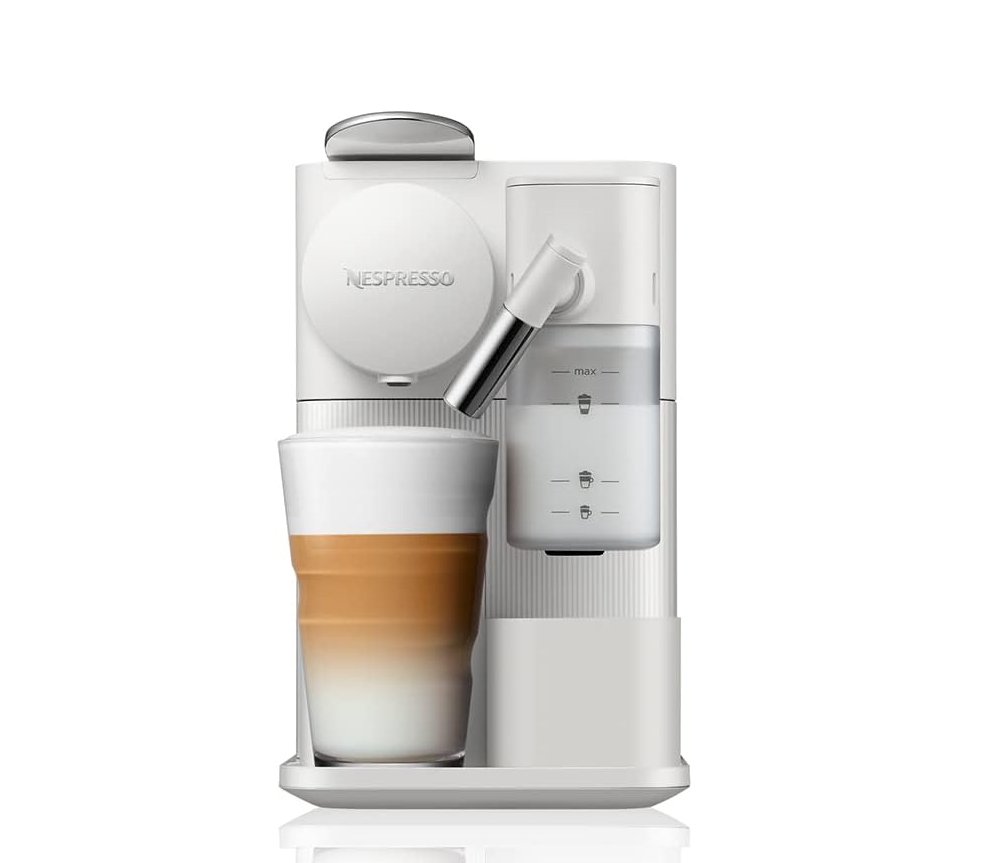
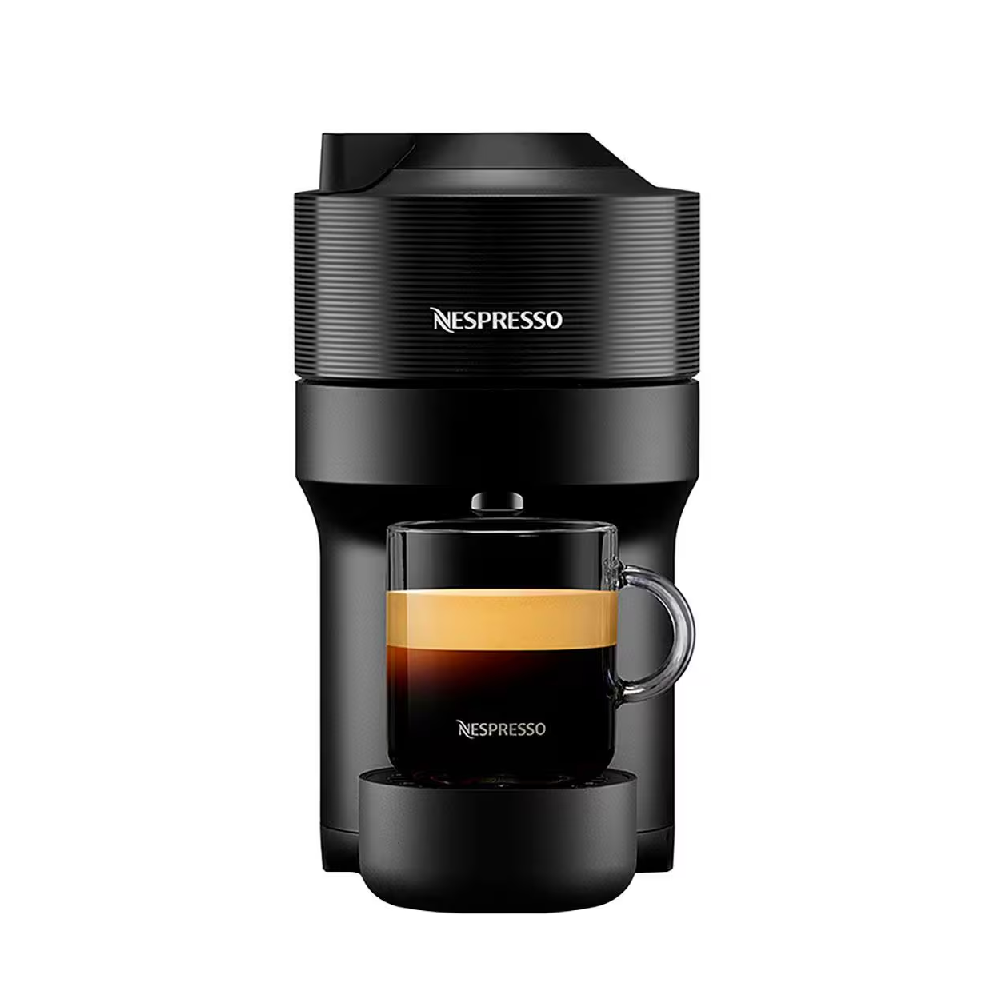
coloquei mais itens

diff --git a/index.html b/index.html
@@ -76,8 +76,7 @@
         <img src="./img/microondas.png" alt="Microondas">
         <h1>Microondas Philco<br>34L Espelhado</h1>
         <span class="valor">R$ 629,90</span>
-        <a class="reservar" href="https://api.whatsapp.com/send?phone=553195111081&text=Olá%2C%20vim%20do%20site%20de%20presentes%20dos%20padrinhos%20e%20gostaria%20de%20reservar%20o%20*Microondas*%20ainda%20está%20disponível%3F%20%F0%9F%98%83">Reservar</a>
-        <a class="comprar" href="https://www.amazon.com.br/Microondas-Philco-Espelhado-Prata-PMO34E/dp/B09G533WFK/ref=asc_df_B09G533WFK/?tag=googleshopp06-20&linkCode=df0&hvadid=676104128623&hvpos=&hvnetw=g&hvrand=10470493351472419974&hvpone=&hvptwo=&hvqmt=&hvdev=m&hvdvcmdl=&hvlocint=&hvlocphy=1031586&hvtargid=pla-2261118195259&psc=1&mcid=c961d6237ffa3c35ba6d206e75d65339">Comprar no site</a>
+        <a class="reservado" href="#lista">RESERVADO</a>
       </div>
 
       <div class="item">
@@ -117,10 +116,10 @@
 
       <div class="item">
         <img src="./img/cafeteira.png" alt="Cafeteira">
-        <h1>Cafeteira Lattissima One</h1>
-        <span class="valor"> R$ 1.169,90</span>
-        <a class="reservar" href="https://api.whatsapp.com/send?phone=553195111081&text=Olá%2C%20vim%20do%20site%20de%20presentes%20dos%20padrinhos%20e%20gostaria%20de%20reservar%20a%20*Cafeteira%20Lattissima*%20ainda%20está%20disponível%3F%20%F0%9F%98%83">Reservar</a>
-        <a class="comprar" href="https://www.amazon.com.br/Nespresso-Lattissima-One-Branca-Cafeteira/dp/B09WYZPBR7/ref=asc_df_B09WYZPBR7/?tag=googleshopp00-20&linkCode=df0&hvadid=557926986208&hvpos=&hvnetw=g&hvrand=16833186065411565568&hvpone=&hvptwo=&hvqmt=&hvdev=c&hvdvcmdl=&hvlocint=&hvlocphy=1031586&hvtargid=pla-1663253407868&mcid=47abd53c207e314b93549cedc17c54a7&th=1">Comprar no site</a>
+        <h1>Cafeteira Nespresso</h1>
+        <span class="valor"> R$ R$ 399,00</span>
+        <a class="reservar" href="https://api.whatsapp.com/send?phone=553195111081&text=Olá%2C%20vim%20do%20site%20de%20presentes%20dos%20padrinhos%20e%20gostaria%20de%20reservar%20a%20*Cafeteira%20Nespresso*%20ainda%20está%20disponível%3F%20%F0%9F%98%83">Reservar</a>
+        <a class="comprar" href="https://www.pontofrio.com.br/maquina-de-cafe-nespresso-vertuo-pop-com-kit-boas-vindas-preta-55060665.html">Comprar no site</a>
       </div>
 
       <div class="item">
@@ -130,6 +129,15 @@
         <a class="reservar" href="https://api.whatsapp.com/send?phone=553195111081&text=Olá%2C%20vim%20do%20site%20de%20presentes%20dos%20padrinhos%20e%20gostaria%20de%20reservar%20a%20*Panela%20de%20pressão%20elétrica*%20ainda%20está%20disponível%3F%20%F0%9F%98%83">Reservar</a>
         <a class="comprar" href="https://m.magazineluiza.com.br/panela-de-pressao-eletrica-digital-mondial-5l-900w-digital-master-cooker-pe-38/p/236680400/ep/eppe/?&force=4&seller_id=magazineluiza&utm_source=google&utm_medium=pla&utm_campaign=&partner_id=74275&gclsrc=aw.ds&gbraid=0AAAAAD4zZmRmRjLHvdoFV6nyaL14s8g3n&gclid=CjwKCAjwg8qzBhAoEiwAWagLrBqTN-hvxHxuNrmTntq_9ot8qVKEqeTop-dj7ShxoBABB1G9NBUl8RoCLNAQAvD_BwE">Comprar no site</a>
       </div>
+
+      <div class="item">
+        <img src="./img/monitor.png" alt="monitor">
+        <h1>Monitor para estudos e trabalho</h1>
+        <span class="valor">R$ 701,11</span>
+        <a class="reservar" href="https://api.whatsapp.com/send?phone=553195111081&text=Olá%2C%20vim%20do%20site%20de%20presentes%20dos%20padrinhos%20e%20gostaria%20de%20reservar%20o%20*Monitor%20AOC%2027%20Polegadas*%20ainda%20está%20disponível%3F%20%F0%9F%98%83">Reservar</a>
+        <a class="comprar" href="https://www.amazon.com.br/Monitor-Gamer-AOC-Adaptive-Sync-27G2E1/dp/B0CT3P7D17/ref=asc_df_B0CT3P7D17/?tag=googleshopp00-20&linkCode=df0&hvadid=647553649801&hvpos=&hvnetw=g&hvrand=11225906843070195341&hvpone=&hvptwo=&hvqmt=&hvdev=c&hvdvcmdl=&hvlocint=&hvlocphy=1031586&hvtargid=pla-2306047048075&psc=1&mcid=17306d4cc2353223a31b063c4be914b3">Comprar no site</a>
+      </div>
+
 
       <div class="item">
         <img src="./img/grill.png" alt="Grill">
@@ -187,6 +195,24 @@
         <a class="comprar" href="https://m.magazineluiza.com.br/jogo-de-panelas-rochedo-antiaderente-de-aluminio-grafite-12-pecas-limpa-facil/p/144134900/ud/cjpn/?&seller_id=magazineluiza&utm_source=google&utm_medium=pla&utm_campaign=&partner_id=74625&gclsrc=aw.ds&gbraid=0AAAAAD4zZmRGNHjp6e5c7AQg3ptV0KxtV&gclid=CjwKCAjwg8qzBhAoEiwAWagLrLW_X_YL-tD4X5P2APxN1Mtzyb5z79F4c5l03vwJ0AV45Jcuf-5kGBoClGQQAvD_BwE">Comprar no site</a>
       </div>
 
+
+      <div class="item">
+        <img src="./img/ferramentas.png" alt="Kit ferramentas">
+        <h1>Kit ferramentas</h1>
+        <span class="valor">R$
+          248,00</span>
+        <a class="reservar" href="https://api.whatsapp.com/send?phone=553195111081&text=Olá%2C%20vim%20do%20site%20de%20presentes%20dos%20padrinhos%20e%20gostaria%20de%20reservar%20o%20*Kit%20de%20Ferramentas*%20ainda%20está%20disponível%3F%20%F0%9F%98%83">Reservar</a>
+        <a class="comprar" href="https://produto.mercadolivre.com.br/MLB-3674383463-kit-jogo-de-ferramentas-129-pcs-c-maleta-parafusadeira-_JM?matt_tool=73118705&matt_word=&matt_source=google&matt_campaign_id=14302215555&matt_ad_group_id=161363869590&matt_match_type=&matt_network=g&matt_device=c&matt_creative=686778909999&matt_keyword=&matt_ad_position=&matt_ad_type=pla&matt_merchant_id=773395515&matt_product_id=MLB3674383463&matt_product_partition_id=1962976110713&matt_target_id=aud-1966852281496:pla-1962976110713&cq_src=google_ads&cq_cmp=14302215555&cq_net=g&cq_plt=gp&cq_med=pla&gad_source=1&gclid=CjwKCAjwp4m0BhBAEiwAsdc4aFDABKIroo_Z9q_HQj3IiJzqRznkRTB8Zr7YzsQTNDLOxid8fD-MWxoC3tgQAvD_BwE">Comprar no site</a>
+      </div>
+
+
+      <div class="item">
+        <img src="./img//ventilador.png" alt="Ventilador">
+        <h1>Ventilador</h1>
+        <span class="valor">R$ 218,49</span>
+        <a class="reservar" href="https://api.whatsapp.com/send?phone=553195111081&text=Olá%2C%20vim%20do%20site%20de%20presentes%20dos%20padrinhos%20e%20gostaria%20de%20reservar%20o%20*Ventilador%20Mondial*%20ainda%20está%20disponível%3F%20%F0%9F%98%83">Reservar</a>
+        <a class="comprar" href="https://www.casasbahia.com.br/ventilador-de-mesa-40cm-mondial-super-turbo-vtx-40-8p-8-pas-3-velocidades-preto-50005641/p/50005641?utm_medium=cpc&utm_source=GP_PLA&IdSku=50005641&idLojista=10037&tipoLojista=1P&gclsrc=aw.ds&utm_campaign=gg_pmax_inter_arve&gad_source=1&gbraid=&gclid=">Comprar no site</a>
+      </div>
 
     </div>
   </section>
